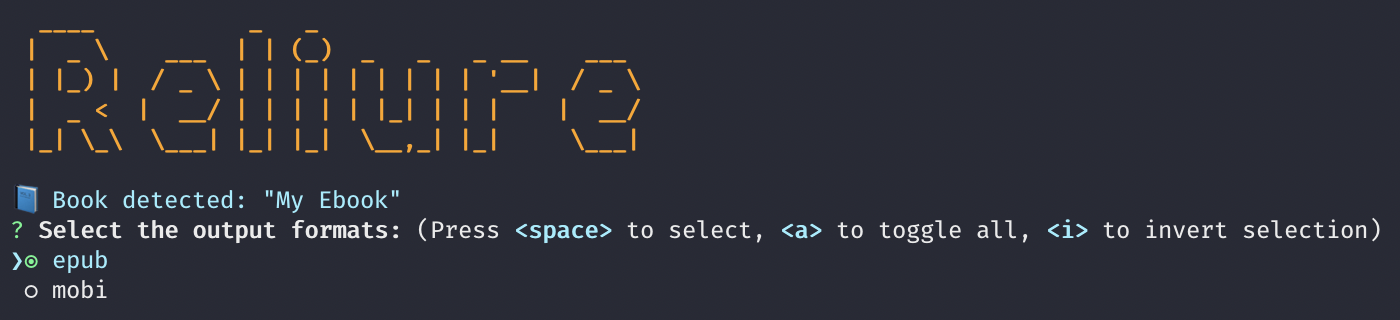
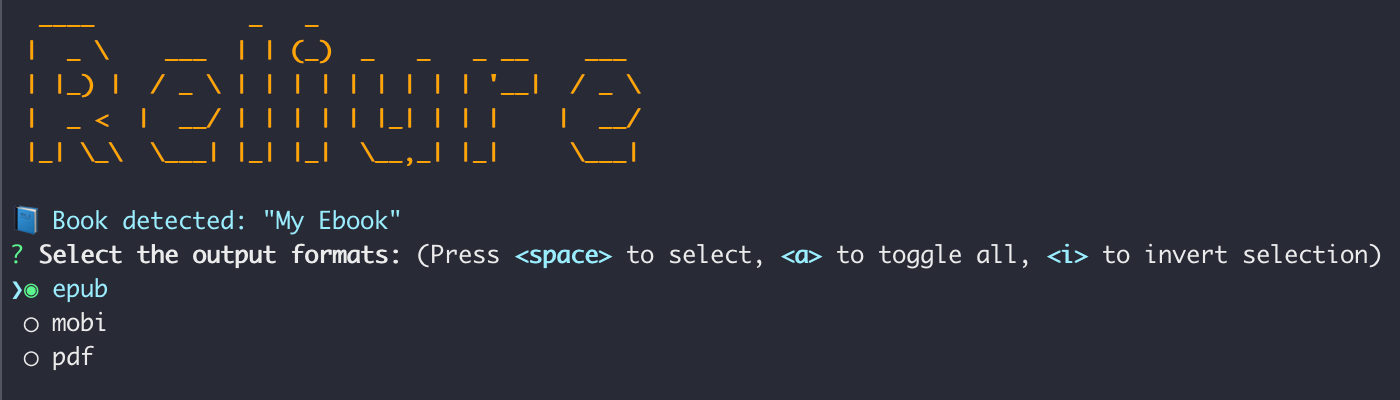
doc: update README

diff --git a/README.md b/README.md
@@ -107,13 +107,14 @@ Usage: `reliure [options]`
 
 - `--epub`: specify to bound the epub format
 - `--mobi`: specify to bound the mobi format
+- `--pdf`: specify to bound the pdf format
 - `-v`, `--version`: print the version number
 - `-h`, `--help`: print usage information
 
 #### Examples:
 
 ```shell
-reliure --epub --mobi
+reliure --epub --mobi --pdf
 reliure -v
 reliure --version
 ```
